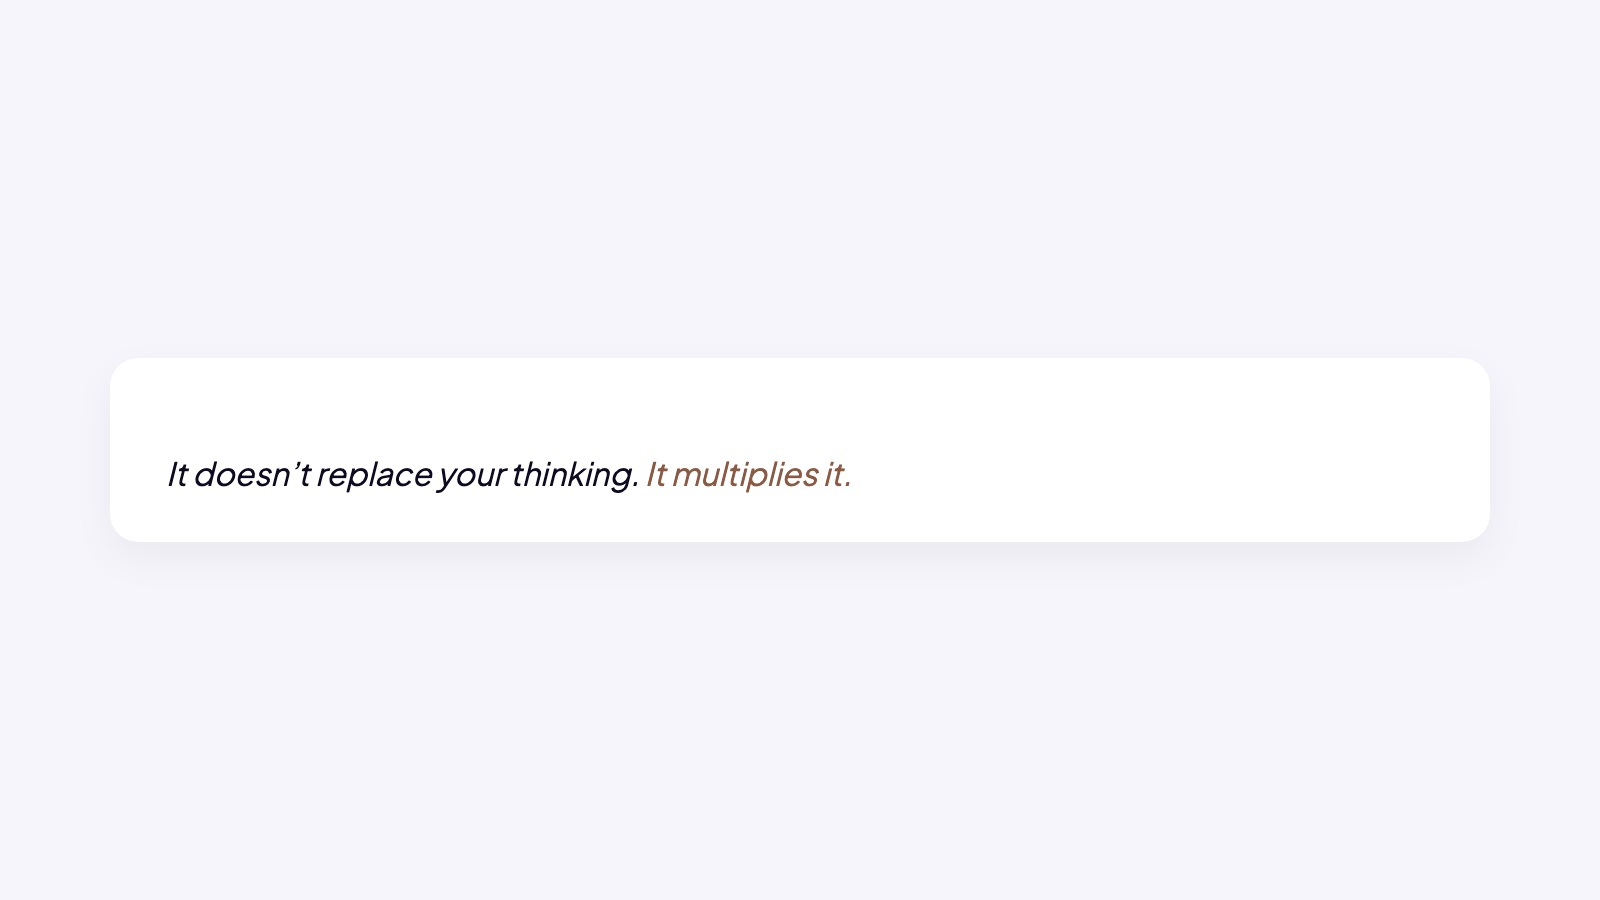
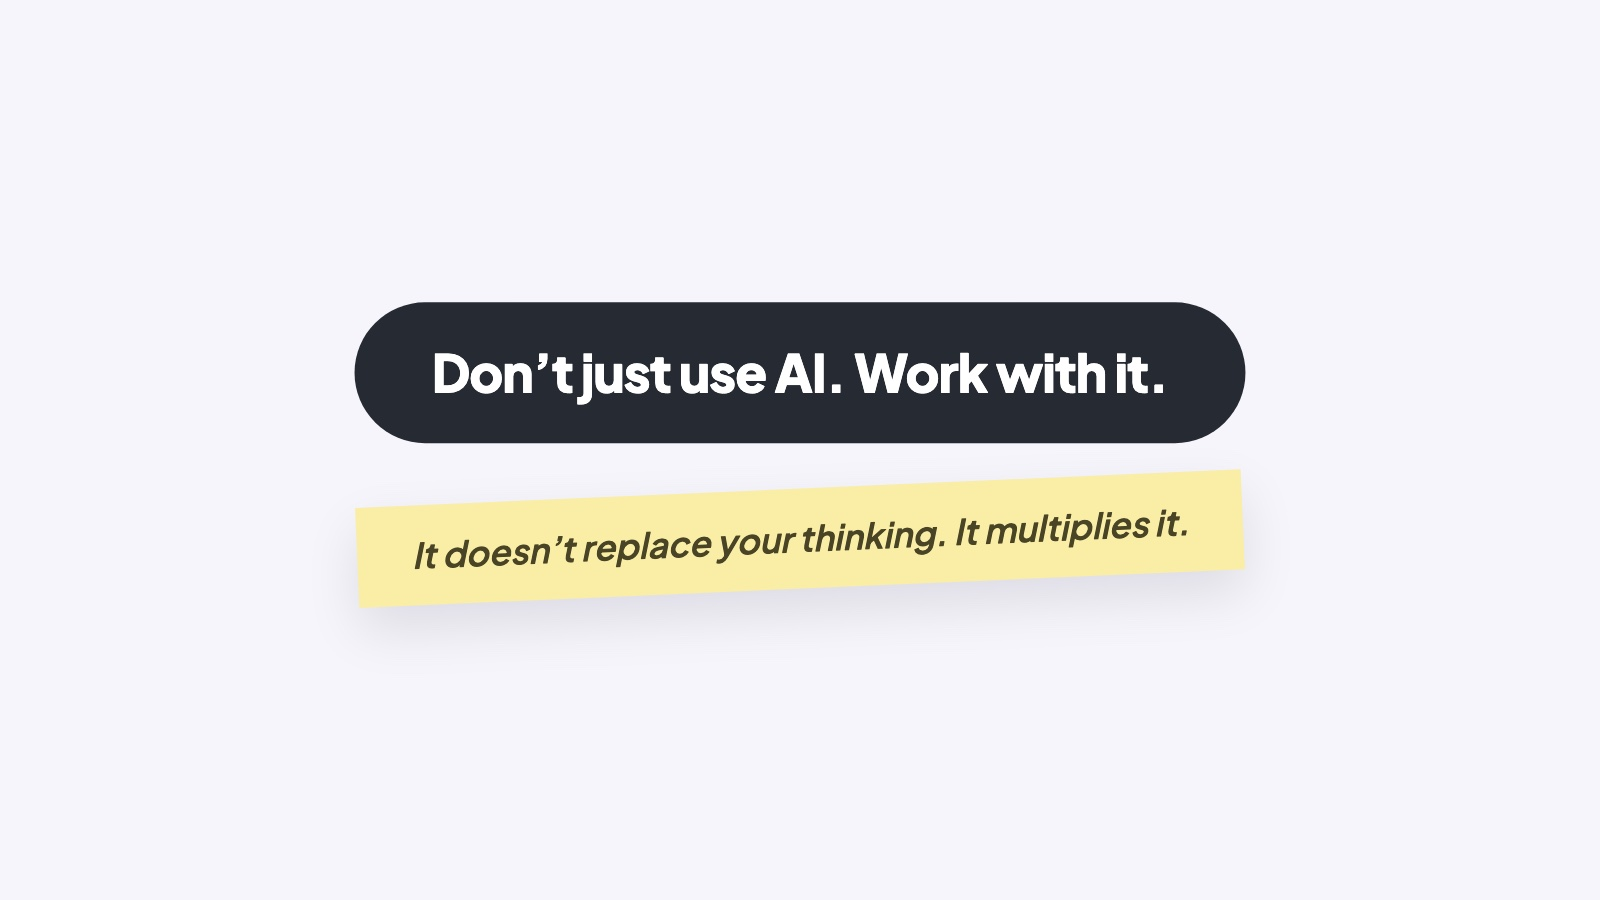
Fix the opener-work close board, which had no pill in it
Found by measuring pill width across every close board in the catalogue: this
one came out at 1.2% where the others sit between 43% and 79%. It wasn't a
close board at all. The old spec matched "replace your thinking||multiplies
it", and that sentence also appears inside the refrain Illustration higher up
the page, so the capture grabbed the refrain's inner line instead. The kit has
been shipping a white card with the sticky text and no pill.

The page renders the real thing correctly. The fix is the selector: lead with
the pill text, which is one contiguous string that exists only in the
CloseBoard. In the refrain block those words are separate divs, so the
concatenated text never matches.

Captured at a 704px stage rather than the default 800. The pill is sized by
its own text, so a wider slot doesn't change how much of the frame it fills -
only the stage width does. 704 puts it at 55.6%, against a catalogue median of
56.4%, and divides into 1600x900 exactly.

Also worth noting for the opener-work challenger still sitting unshipped: I
graded its ending a PASS because its final frame matched this kit board. It
was faithfully reproducing a board that was wrong, so that ending is a partial
miss - it ends on the sticky line without the pill.

Changed region(s): [[0.125, 0.3111, 0.7812, 0.6844]]

diff --git a/scripts/capture-page-boards.js b/scripts/capture-page-boards.js
@@ -66,6 +66,13 @@ const BOARDS = [
   // each habit's reason. It runs wide rather than tall, so it needs the roomier stage.
   { section: "studying", out: "learn-with-ai-3-habits.jpg", width: 1180, vw: 1280,
     find: ["One notebook per subject", "Trace it back to learn it", "Reading the original material"] },
+
+  // opener-work close: the old spec matched "replace your thinking||multiplies it",
+  // which ALSO appears inside the refrain Illustration, so the capture grabbed that
+  // instead and shipped a kit board with no pill at all. Leading with the PILL text
+  // (one contiguous string, only present in the CloseBoard) forces the right element.
+  { section: "openerworkwith", out: "opener-work-3-close.jpg", width: 560, vw: 704,
+    find: ["Don\u2019t just use AI. Work with it.", "It doesn\u2019t replace your thinking. It multiplies it."] },
 ];
 
 const compose = (preds, width, vw) => `(function(){
